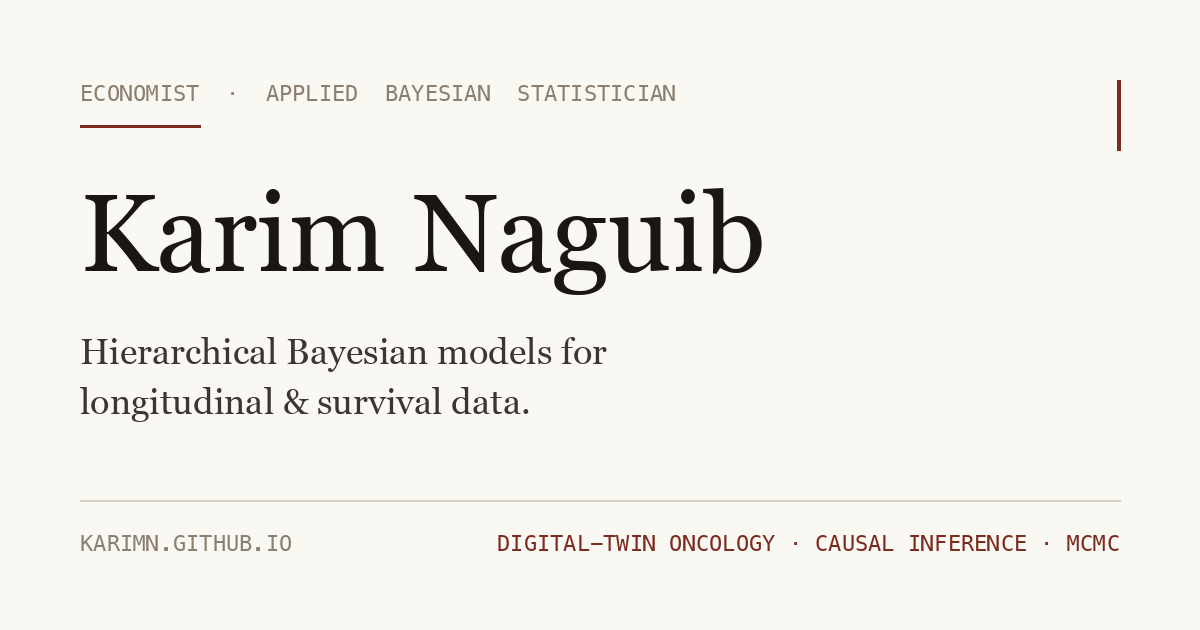
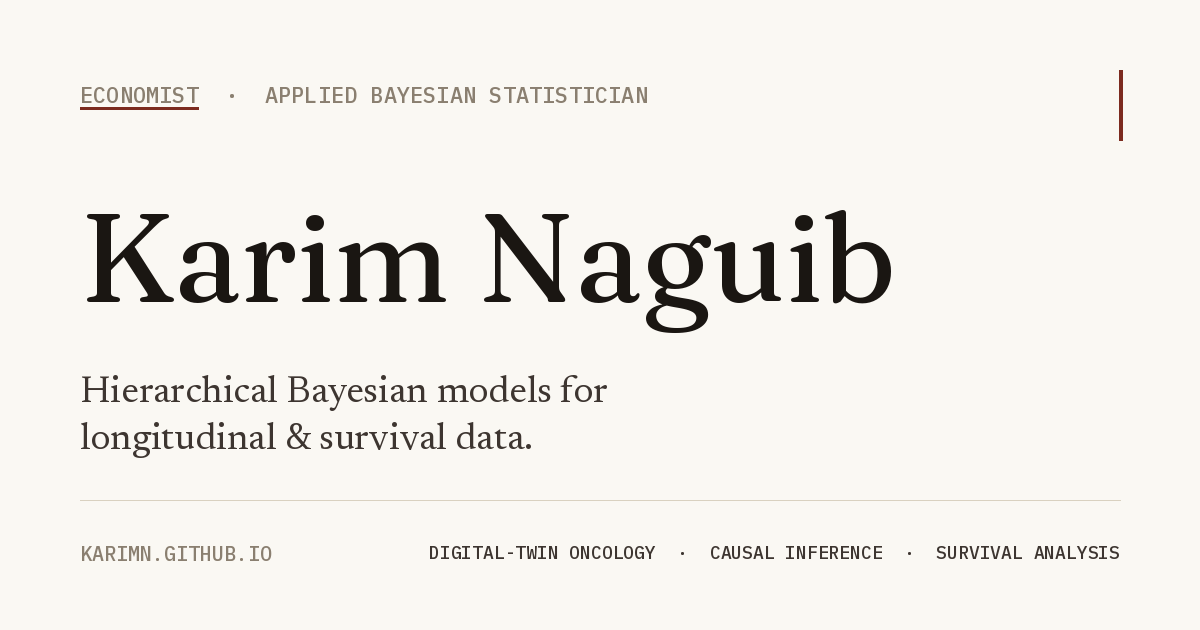
Add og-image build script; replace MCMC tag with Survival Analysis
The social card is now generated from scripts/build_og_image.py so future
edits don't require recreating the PNG by hand. Fonts (Fraunces, Newsreader,
IBM Plex Mono) are fetched on demand and cached under scripts/.fonts/.

diff --git a/scripts/build_og_image.py b/scripts/build_og_image.py
@@ -1,0 +1,188 @@
+#!/usr/bin/env python3
+"""Generate og-image.png for the site's social card.
+
+Edit the constants near the top of this file, then run:
+
+    scripts/.venv/bin/python scripts/build_og_image.py
+    cp og-image.png docs/og-image.png   # so quarto's render output ships it
+
+The script downloads Fraunces, Newsreader, and IBM Plex Mono into
+scripts/.fonts/ on first run (via curl) and writes the result to
+og-image.png in the repo root. It needs Pillow; if scripts/.venv is
+missing, bootstrap it with:
+
+    python3 -m venv scripts/.venv
+    scripts/.venv/bin/pip install Pillow
+
+Both scripts/.venv/ and scripts/.fonts/ are gitignored.
+"""
+from __future__ import annotations
+
+import shutil
+import subprocess
+import sys
+from pathlib import Path
+
+from PIL import Image, ImageDraw, ImageFont
+
+# ---------------------------------------------------------------------------
+# Content — edit these to change the card.
+# ---------------------------------------------------------------------------
+
+EYEBROW = "ECONOMIST  ·  APPLIED BAYESIAN STATISTICIAN"
+TITLE = "Karim Naguib"
+LEDE_LINES = [
+    "Hierarchical Bayesian models for",
+    "longitudinal & survival data.",
+]
+FOOTER_LEFT = "KARIMN.GITHUB.IO"
+FOOTER_RIGHT_TAGS = [
+    "DIGITAL-TWIN ONCOLOGY",
+    "CAUSAL INFERENCE",
+    "SURVIVAL ANALYSIS",
+]
+
+# ---------------------------------------------------------------------------
+# Visual style — palette mirrors theme.scss.
+# ---------------------------------------------------------------------------
+
+WIDTH, HEIGHT = 1200, 630
+PAPER = (250, 248, 243)        # $paper
+INK = (26, 22, 18)             # $ink
+INK_SOFT = (61, 53, 48)        # $ink-soft
+INK_MUTED = (138, 127, 112)    # $ink-muted
+ACCENT = (124, 43, 31)         # $accent
+RULE = (217, 209, 192)         # $rule
+
+PAD_X = 80
+EYEBROW_Y = 80
+RULE_Y = 500
+
+# ---------------------------------------------------------------------------
+# Fonts — fetched from Google Fonts on first run.
+# ---------------------------------------------------------------------------
+
+REPO_ROOT = Path(__file__).resolve().parent.parent
+FONT_DIR = Path(__file__).resolve().parent / ".fonts"
+FONT_DIR.mkdir(exist_ok=True)
+
+FONT_URLS = {
+    # Fontsource mirrors every Google font as plain .ttf files, which is
+    # the most reliable CDN for scripted builds.
+    "Fraunces-Regular.ttf":
+        "https://cdn.jsdelivr.net/fontsource/fonts/fraunces@latest/latin-400-normal.ttf",
+    "Newsreader-Regular.ttf":
+        "https://cdn.jsdelivr.net/fontsource/fonts/newsreader@latest/latin-400-normal.ttf",
+    "IBMPlexMono-Medium.ttf":
+        "https://cdn.jsdelivr.net/fontsource/fonts/ibm-plex-mono@latest/latin-500-normal.ttf",
+    "IBMPlexMono-Regular.ttf":
+        "https://cdn.jsdelivr.net/fontsource/fonts/ibm-plex-mono@latest/latin-400-normal.ttf",
+}
+
+
+def ensure_font(name: str) -> Path:
+    path = FONT_DIR / name
+    if path.exists():
+        return path
+    url = FONT_URLS[name]
+    if shutil.which("curl") is None:
+        raise RuntimeError("curl is required to bootstrap font files")
+    print(f"  fetching {name} …", file=sys.stderr)
+    subprocess.run(
+        ["curl", "-fsSL", "-o", str(path), url],
+        check=True,
+    )
+    return path
+
+
+def load(name: str, size: int) -> ImageFont.FreeTypeFont:
+    return ImageFont.truetype(str(ensure_font(name)), size=size)
+
+
+# ---------------------------------------------------------------------------
+# Helpers
+# ---------------------------------------------------------------------------
+
+def text_width(draw: ImageDraw.ImageDraw, text: str, font: ImageFont.FreeTypeFont) -> int:
+    return int(draw.textlength(text, font=font))
+
+
+def draw_eyebrow(draw: ImageDraw.ImageDraw, font: ImageFont.FreeTypeFont) -> None:
+    # Tracking via spaces in EYEBROW; first segment ("ECONOMIST") gets an
+    # underline in accent color to echo the masthead treatment.
+    draw.text((PAD_X, EYEBROW_Y), EYEBROW, font=font, fill=INK_MUTED)
+    first = EYEBROW.split("·")[0].rstrip()
+    underline_w = text_width(draw, first, font)
+    underline_y = EYEBROW_Y + font.size + 6
+    draw.line(
+        [(PAD_X, underline_y), (PAD_X + underline_w, underline_y)],
+        fill=ACCENT,
+        width=3,
+    )
+
+
+def draw_right_marker(draw: ImageDraw.ImageDraw) -> None:
+    # Slim oxblood vertical bar in the upper-right — visual anchor.
+    x = WIDTH - PAD_X
+    draw.line([(x, EYEBROW_Y - 10), (x, EYEBROW_Y + 60)], fill=ACCENT, width=4)
+
+
+def draw_title(draw: ImageDraw.ImageDraw, font: ImageFont.FreeTypeFont, y: int) -> int:
+    draw.text((PAD_X, y), TITLE, font=font, fill=INK)
+    return y + font.size
+
+
+def draw_lede(draw: ImageDraw.ImageDraw, font: ImageFont.FreeTypeFont, y: int) -> int:
+    line_height = int(font.size * 1.25)
+    for line in LEDE_LINES:
+        draw.text((PAD_X, y), line, font=font, fill=INK_SOFT)
+        y += line_height
+    return y
+
+
+def draw_footer(
+    draw: ImageDraw.ImageDraw,
+    rule_y: int,
+    left_font: ImageFont.FreeTypeFont,
+    right_font: ImageFont.FreeTypeFont,
+) -> None:
+    draw.line([(PAD_X, rule_y), (WIDTH - PAD_X, rule_y)], fill=RULE, width=1)
+
+    foot_y = rule_y + 40
+    draw.text((PAD_X, foot_y), FOOTER_LEFT, font=left_font, fill=INK_MUTED)
+
+    tag_text = "  ·  ".join(FOOTER_RIGHT_TAGS)
+    tag_w = text_width(draw, tag_text, right_font)
+    draw.text((WIDTH - PAD_X - tag_w, foot_y), tag_text, font=right_font, fill=INK_SOFT)
+
+
+# ---------------------------------------------------------------------------
+# Main
+# ---------------------------------------------------------------------------
+
+def build() -> Path:
+    img = Image.new("RGB", (WIDTH, HEIGHT), PAPER)
+    draw = ImageDraw.Draw(img)
+
+    eyebrow_font = load("IBMPlexMono-Medium.ttf", 22)
+    title_font = load("Fraunces-Regular.ttf", 124)
+    lede_font = load("Newsreader-Regular.ttf", 38)
+    foot_left_font = load("IBMPlexMono-Medium.ttf", 20)
+    foot_right_font = load("IBMPlexMono-Medium.ttf", 18)
+
+    draw_eyebrow(draw, eyebrow_font)
+    draw_right_marker(draw)
+
+    title_y = 180
+    cursor = draw_title(draw, title_font, title_y)
+    cursor += 70
+    draw_lede(draw, lede_font, cursor)
+    draw_footer(draw, RULE_Y, foot_left_font, foot_right_font)
+
+    out = REPO_ROOT / "og-image.png"
+    img.save(out, "PNG", optimize=True)
+    return out
+
+
+if __name__ == "__main__":
+    print(f"writing {build().relative_to(REPO_ROOT)}")

diff --git a/CLAUDE.md b/CLAUDE.md
@@ -41,6 +41,19 @@ The rendered output goes to `docs/` (configured in `_quarto.yml`). The `resume.p
 | `research.qmd` | Research papers with abstracts |
 | `resume.qmd` | PDF-only resume (rendered to `docs/resume.pdf`) |
 
+## Social card (OG image)
+
+The file `og-image.png` at the repo root (and mirrored in `docs/`) is what
+link-preview crawlers render. It is regenerated by `scripts/build_og_image.py`
+— edit the content constants at the top of that script and run:
+
+```bash
+scripts/.venv/bin/python scripts/build_og_image.py
+cp og-image.png docs/og-image.png
+```
+
+Fonts and the venv live in `scripts/.fonts/` and `scripts/.venv/` (gitignored).
+
 ## Content Conventions
 
 - `about.qmd` and `resume.qmd` contain parallel content (bio, skills, experience, publications) — keep them in sync when updating either.
